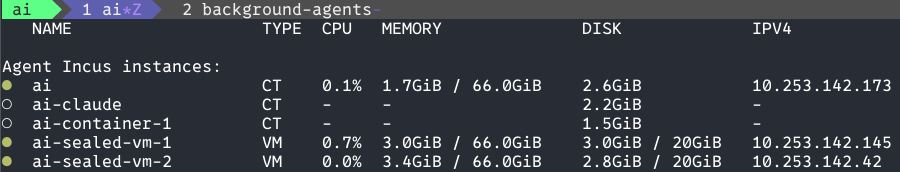
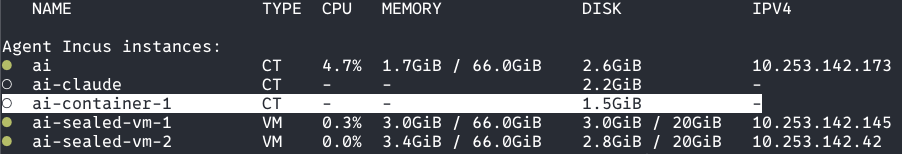
docs(readme): update the incs status screenshot

diff --git a/README.md b/README.md
@@ -107,7 +107,7 @@ The individual scripts and aliases (`inci`, `incn`) still work directly.
 
 `incs status` lists every instance with its state, type, CPU, memory, disk, and IPv4 addresses. Instances created by `incus.init` appear first under "Agent Incus instances", and everything else follows under "Other Incus instances". Running instances are marked `●`, frozen `◐`, and stopped `○`, and the type column reads `CT` for a container or `VM` for a virtual machine. CPU is a share of the whole host, so an instance keeping one core busy on an 8-CPU host reads 12.5%. Memory is shown against the host's total memory, and disk against the root disk size when one is set.
 
-![incs status grouping Agent Incus instances, with state, type, CPU, memory, disk, and IPv4 columns](.github/images/incs-status.png)
+![incs status live view grouping Agent Incus instances, with one row highlighted and state, type, CPU, memory, disk, and IPv4 columns](.github/images/incs-status.png)
 
 In a terminal, `incs status` is a live view that refreshes every second:
 
